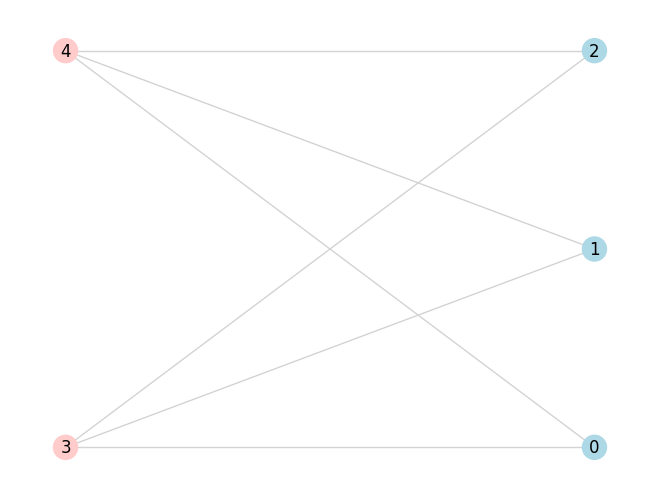
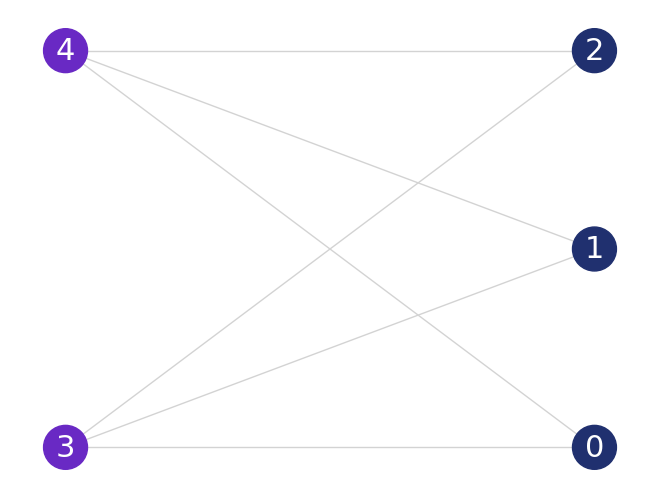
Updated plot in maxcut qite example; Added qite to ported features

diff --git a/documentation/source/reference/Examples/MaxCutQITE.rst b/documentation/source/reference/Examples/MaxCutQITE.rst
@@ -101,11 +101,11 @@ Finally, we visualize the most likely solution.
 :: 
 
     most_likely = max_five[0][0]
-    nx.draw(G, with_labels = True,
-            node_color=['#FFCCCB' if most_likely[node]=='0' else '#ADD8E6' for node in G.nodes()],
+    nx.draw(G, with_labels = True, font_color='white', node_size=1000, font_size=22,
+            node_color=['#6929C4' if most_likely[node]=='0' else '#20306f' for node in G.nodes()],
             edge_color='#D3D3D3',
             pos = nx.bipartite_layout(G, [node for node in G.nodes() if most_likely[node]=='0']))
 
 .. figure:: /_static/maxcut_qite.png
-    :scale: 80%
+    :scale: 60%
     :align: center

diff --git a/documentation/source/reference/Jasp/Ported Features.rst b/documentation/source/reference/Jasp/Ported Features.rst
@@ -55,7 +55,7 @@ Since Jasp is a fundamentally different compilation architecture, not all Qrisp 
    * - :ref:`VQE <VQE>`
      -    ✅
    * - :ref:`QITE <QITE>`
-     -    ❌
+     -    ✅
    * - :ref:`Quantum Backtracking <QuantumBacktrackingTree>`
      -    ❌
    * - :ref:`Operator measurement (Operators module) <Operators>`
